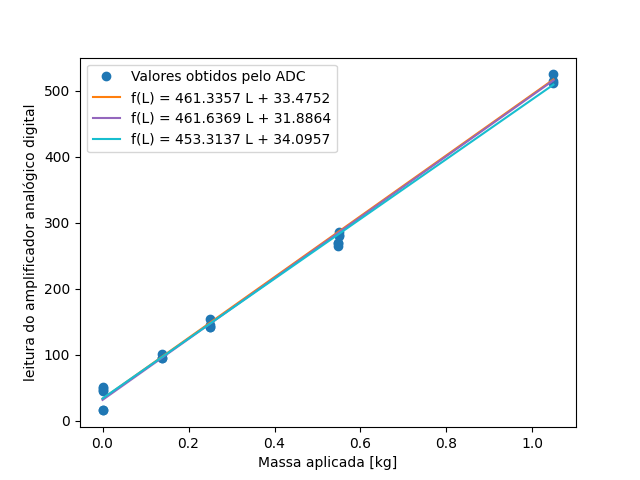
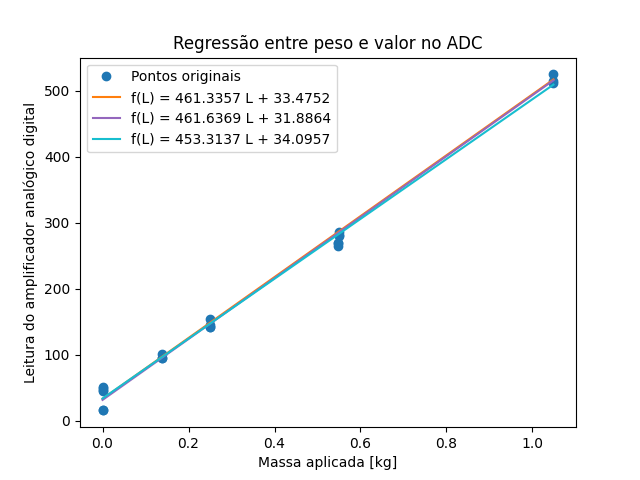
more

Changed region(s): [[0.1875, 0.0625, 0.75, 0.1875], [0.0312, 0.2188, 0.0625, 0.8125]]

diff --git a/TCC_analysis.py b/TCC_analysis.py
@@ -33,7 +33,7 @@ def data_from_directory_files(directory, delete_plots=False):
             {
                 'weight_class': item[0],
                 'weight_value': weight_value,
-                'strain_value': get_strain_value(weight_value),
+                'strain_value': get_strain_value(weight_value)*1e6,
                 'file_name': item[2],
                 'time_start': item[1][0],
                 'time_end': item[1][1],
@@ -164,19 +164,25 @@ def regression_weight_read(adj_points, data_):
     return linregress(x=x_values, y=y_values)
 
 
-def plot_regression(regression_list, weights, reads):
+def regression_read_strain(adj_points, data_):
+    x_values = array([data['read_load'] for data in data_ if data['weight_class'] in adj_points])
+    y_values = array([data['strain_value'] for data in data_ if data['weight_class'] in adj_points])
+    return linregress(x=x_values, y=y_values)
+
+
+def plot_regression(regression_list, x_points, y_points):
     # plotando os valores
     plt.plot(
-        weights,
-        reads,
+        x_points,
+        y_points,
         'o',
-        label='Valores obtidos pelo ADC'
+        label='Pontos originais'
     )
     i=1
     for regression in regression_list:
         plt.plot(
-            weights,
-            regression.intercept + regression.slope * weights,
+            x_points,
+            regression.intercept + regression.slope * x_points,
             f'C{i**2}',
             label=f'f(L) = {round(regression.slope, 4)} L + {round(regression.intercept, 4)}'
         )
@@ -190,33 +196,84 @@ dir_ = 'Results/sep_24_1'
 data = data_from_directory_files(dir_, delete_plots=True)
 
 # plot de cada analise
-plot_all_files(save=True, directory=dir_, adjust=False)
+# plot_all_files(save=True, directory=dir_, adjust=True)
 
-# # obtendo dados de cada leitura
-# df = DataFrame(data).sort_values('read_load').drop(['file_name', 'read_full'], axis=1)
-#
-# # regressoes
-# regression = [
-#     regression_weight_read(adj_points=['1', '3'], data_=data),  # regressão com 2 pontos
-#     regression_weight_read(adj_points=['1', 'a', '3'], data_=data),  # regressão com 3 pontos
-#     regression_weight_read(adj_points=['0', '1', '2', 'a', 'b', '3'], data_=data)  # regressão com todos os pontos
+# obtendo dados de cada leitura
+df = DataFrame(data).sort_values('read_load').drop(['file_name', 'read_full'], axis=1)
+
+# regressoes entre peso e valor obtido pelo ADC
+plt.figure()
+plot_regression(
+    regression_list=[
+        regression_weight_read(  # regressão com 2 pontos
+            adj_points=['1', '3'],
+            data_=data
+        ),
+        regression_weight_read(  # regressão com 3 pontos
+            adj_points=['1', 'a', '3'],
+            data_=data
+        ),
+        regression_weight_read(  # regressão com todos os pontos
+            adj_points=['0', '1', '2', 'a', 'b', '3'],
+            data_=data
+        )
+    ],
+    x_points=array(df['weight_value']),
+    y_points=array(df['read_load'])
+)
+plt.title('Regressão entre peso e valor no ADC')
+plt.xlabel('Massa aplicada [kg]')
+plt.ylabel('Leitura do amplificador analógico digital')
+plt.legend()
+plt.show()
+plt.savefig(f'{dir_}_weight.png')
+plt.close()
+
+
+# regressoes entre valor do ADC e deformacao
+plt.figure()
+plot_regression(
+    regression_list=[
+        regression_read_strain(  # regressão com 2 pontos
+            adj_points=['1', '3'],
+            data_=data
+        ),
+        regression_read_strain(  # regressão com 3 pontos
+            adj_points=['1', 'a', '3'],
+            data_=data
+        ),
+        regression_read_strain(  # regressão com todos os pontos
+            adj_points=['0', '1', '2', 'a', 'b', '3'],
+            data_=data
+        )
+    ],
+    x_points=array(df['read_load']),
+    y_points=array(df['strain_value'])
+)
+plt.title('Regressão entre valor obtido e deformação')
+plt.xlabel('Valor obtido pelo amplificador analógico digital')
+plt.ylabel('Deformação no strain gauge [um]')
+plt.legend()
+plt.show()
+plt.savefig(f'{dir_}_deformation.png')
+plt.close()
+
+# regression_list = [
+#     regression_read_strain(  # regressão com 2 pontos
+#         adj_points=['1', '3'],
+#         data_=data
+#     ),
+#     regression_read_strain(  # regressão com 3 pontos
+#         adj_points=['1', 'a', '3'],
+#         data_=data
+#     ),
+#     regression_read_strain(  # regressão com todos os pontos
+#         adj_points=['0', '1', '2', 'a', 'b', '3'],
+#         data_=data
+#     )
 # ]
-# plt.figure()
-# plot_regression(
-#     regression_list=regression,
-#     weights=array(df['weight_value']),
-#     reads=array(df['read_load'])
-# )
-# plt.xlabel('Massa aplicada [kg]')
-# plt.ylabel('leitura do amplificador analógico digital')
-# plt.legend()
-# plt.show()
-# plt.savefig(f'{dir_}_weight.png')
-#
-# # analise analitica
-# # wt = array([data['weight_value'] for data in data])
-# # st = array([data['strain_value'] * 1e6 for data in data])
-# # df = DataFrame([wt, st]).T.drop_duplicates().sort_values(0)
-# # df.columns = ['weight', 'calculated_strain']
-# # df.to_csv('Results/sep_24_1_results.csv', index=None)
+
+# analise analitica
+# df.columns = ['weight', 'calculated_strain']
+# df.to_csv('Results/sep_24_1_results.csv', index=None)
 #
